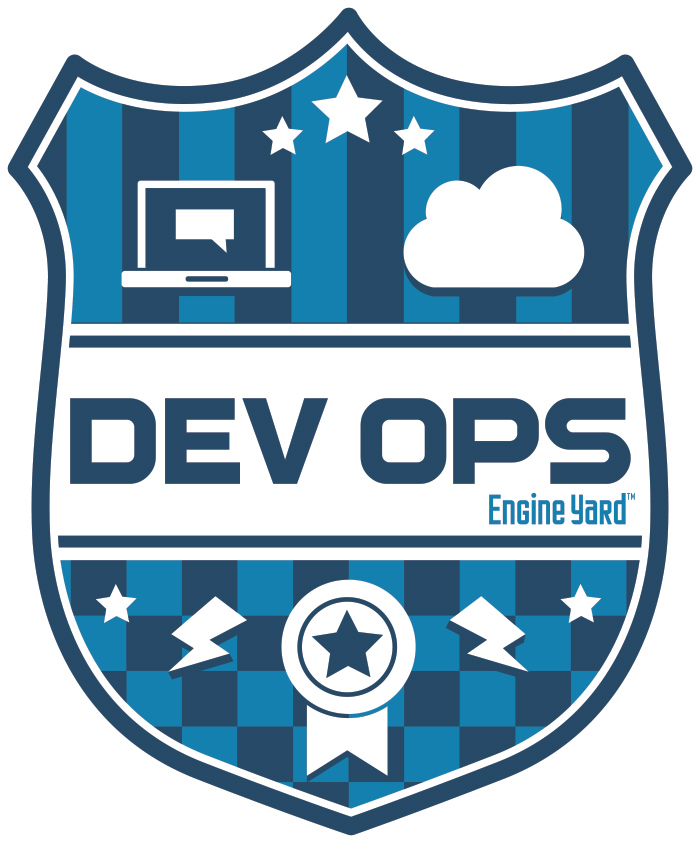
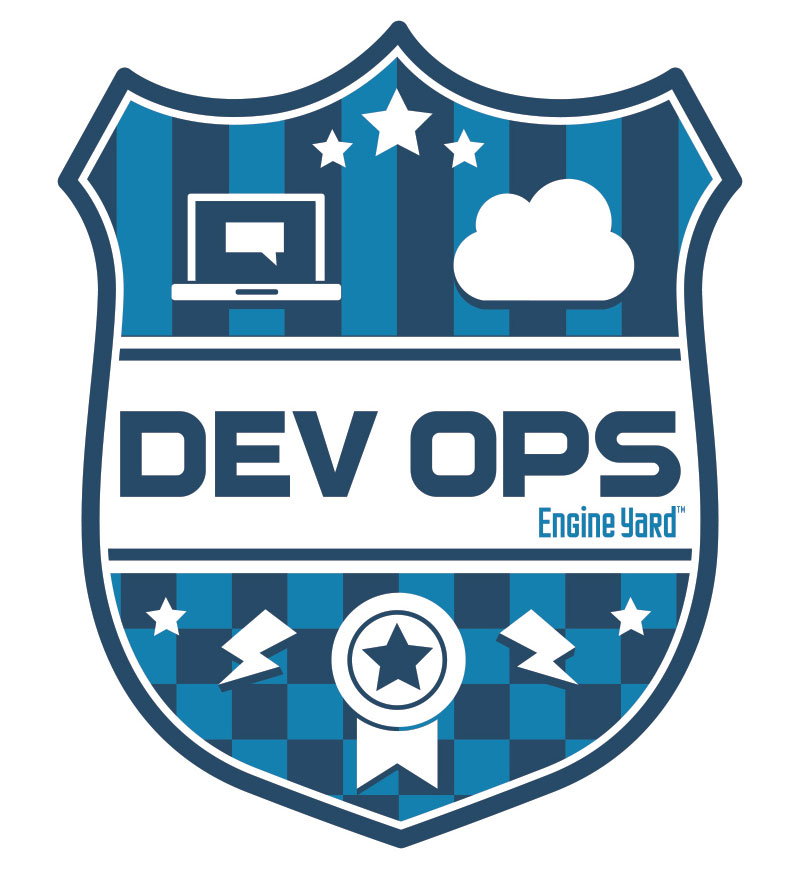
Resizing images to 800px. Added Eye svg.
Added posts for Distill and Rubyconf Miami and Nextgen add-ons.

diff --git a/css/style.css b/css/style.css
@@ -188,7 +188,7 @@ footer, .page-wrap:after {
     left: 0;
     width: 300px;
     height: 300px;
-    background-color: rgba(14, 12, 10, 0.6);
+    background-color: rgba(14, 12, 10, 0.8);
     z-index: 5;
     opacity: 0;
     -webkit-transition: opacity 1s ease;
@@ -202,12 +202,19 @@ footer, .page-wrap:after {
     .tile .tile-hover .tile-top {
       height: 150px; }
       .tile .tile-hover .tile-top a {
-        padding: 50px 20px 20px;
+        padding: 20px 20px 20px;
         font-size: 40px;
-        display: block;
-        color: #8fe5c3; }
-        .tile .tile-hover .tile-top a:hover {
-          color: #fff; }
+        display: block; }
+        .tile .tile-hover .tile-top a .eye {
+          fill: #8fe5c3;
+          -webkit-transition: fill 0.7s ease;
+          -moz-transition: fill 0.7s ease;
+          transition: fill 0.7s ease; }
+        .tile .tile-hover .tile-top a:hover .eye {
+          -webkit-transition: fill 0.7s ease;
+          -moz-transition: fill 0.7s ease;
+          transition: fill 0.7s ease;
+          fill: #fff; }
     .tile .tile-hover hr {
       height: 1px;
       border-top: none;

diff --git a/css/scss/style.scss b/css/scss/style.scss
@@ -8,7 +8,7 @@ $green: #8fe5c3;
 $teal: #8fdce5;
 $lav: #8fb1e5;
 $darkopal: hsl(30,16.7%,4.7%);
-$darkopal-transparency: hsla(30,16.7%,4.7%,.6);
+$darkopal-transparency: hsla(30,16.7%,4.7%,.8);
 $snow-transparency: hsla(31.2,51%,90.4%,.3);
 // end of Colors
 
@@ -193,12 +193,16 @@ footer, .page-wrap:after {
         .tile-top {
             height: 150px;
             a {
-                padding: 50px 20px 20px;
+                padding: 20px 20px 20px;
                 font-size: 40px;
                 display: block;
-                color: $green;
-                &:hover {
-                    color: #fff;
+                .eye {
+                    fill: $green;
+                    @include transition (fill 0.7s ease);
+                }
+                &:hover .eye {
+                    @include transition (fill 0.7s ease);
+                    fill: #fff;
                 }
             }
         }
@@ -264,4 +268,3 @@ footer, .page-wrap:after {
         letter-spacing: .1em;
     }
 }
-
